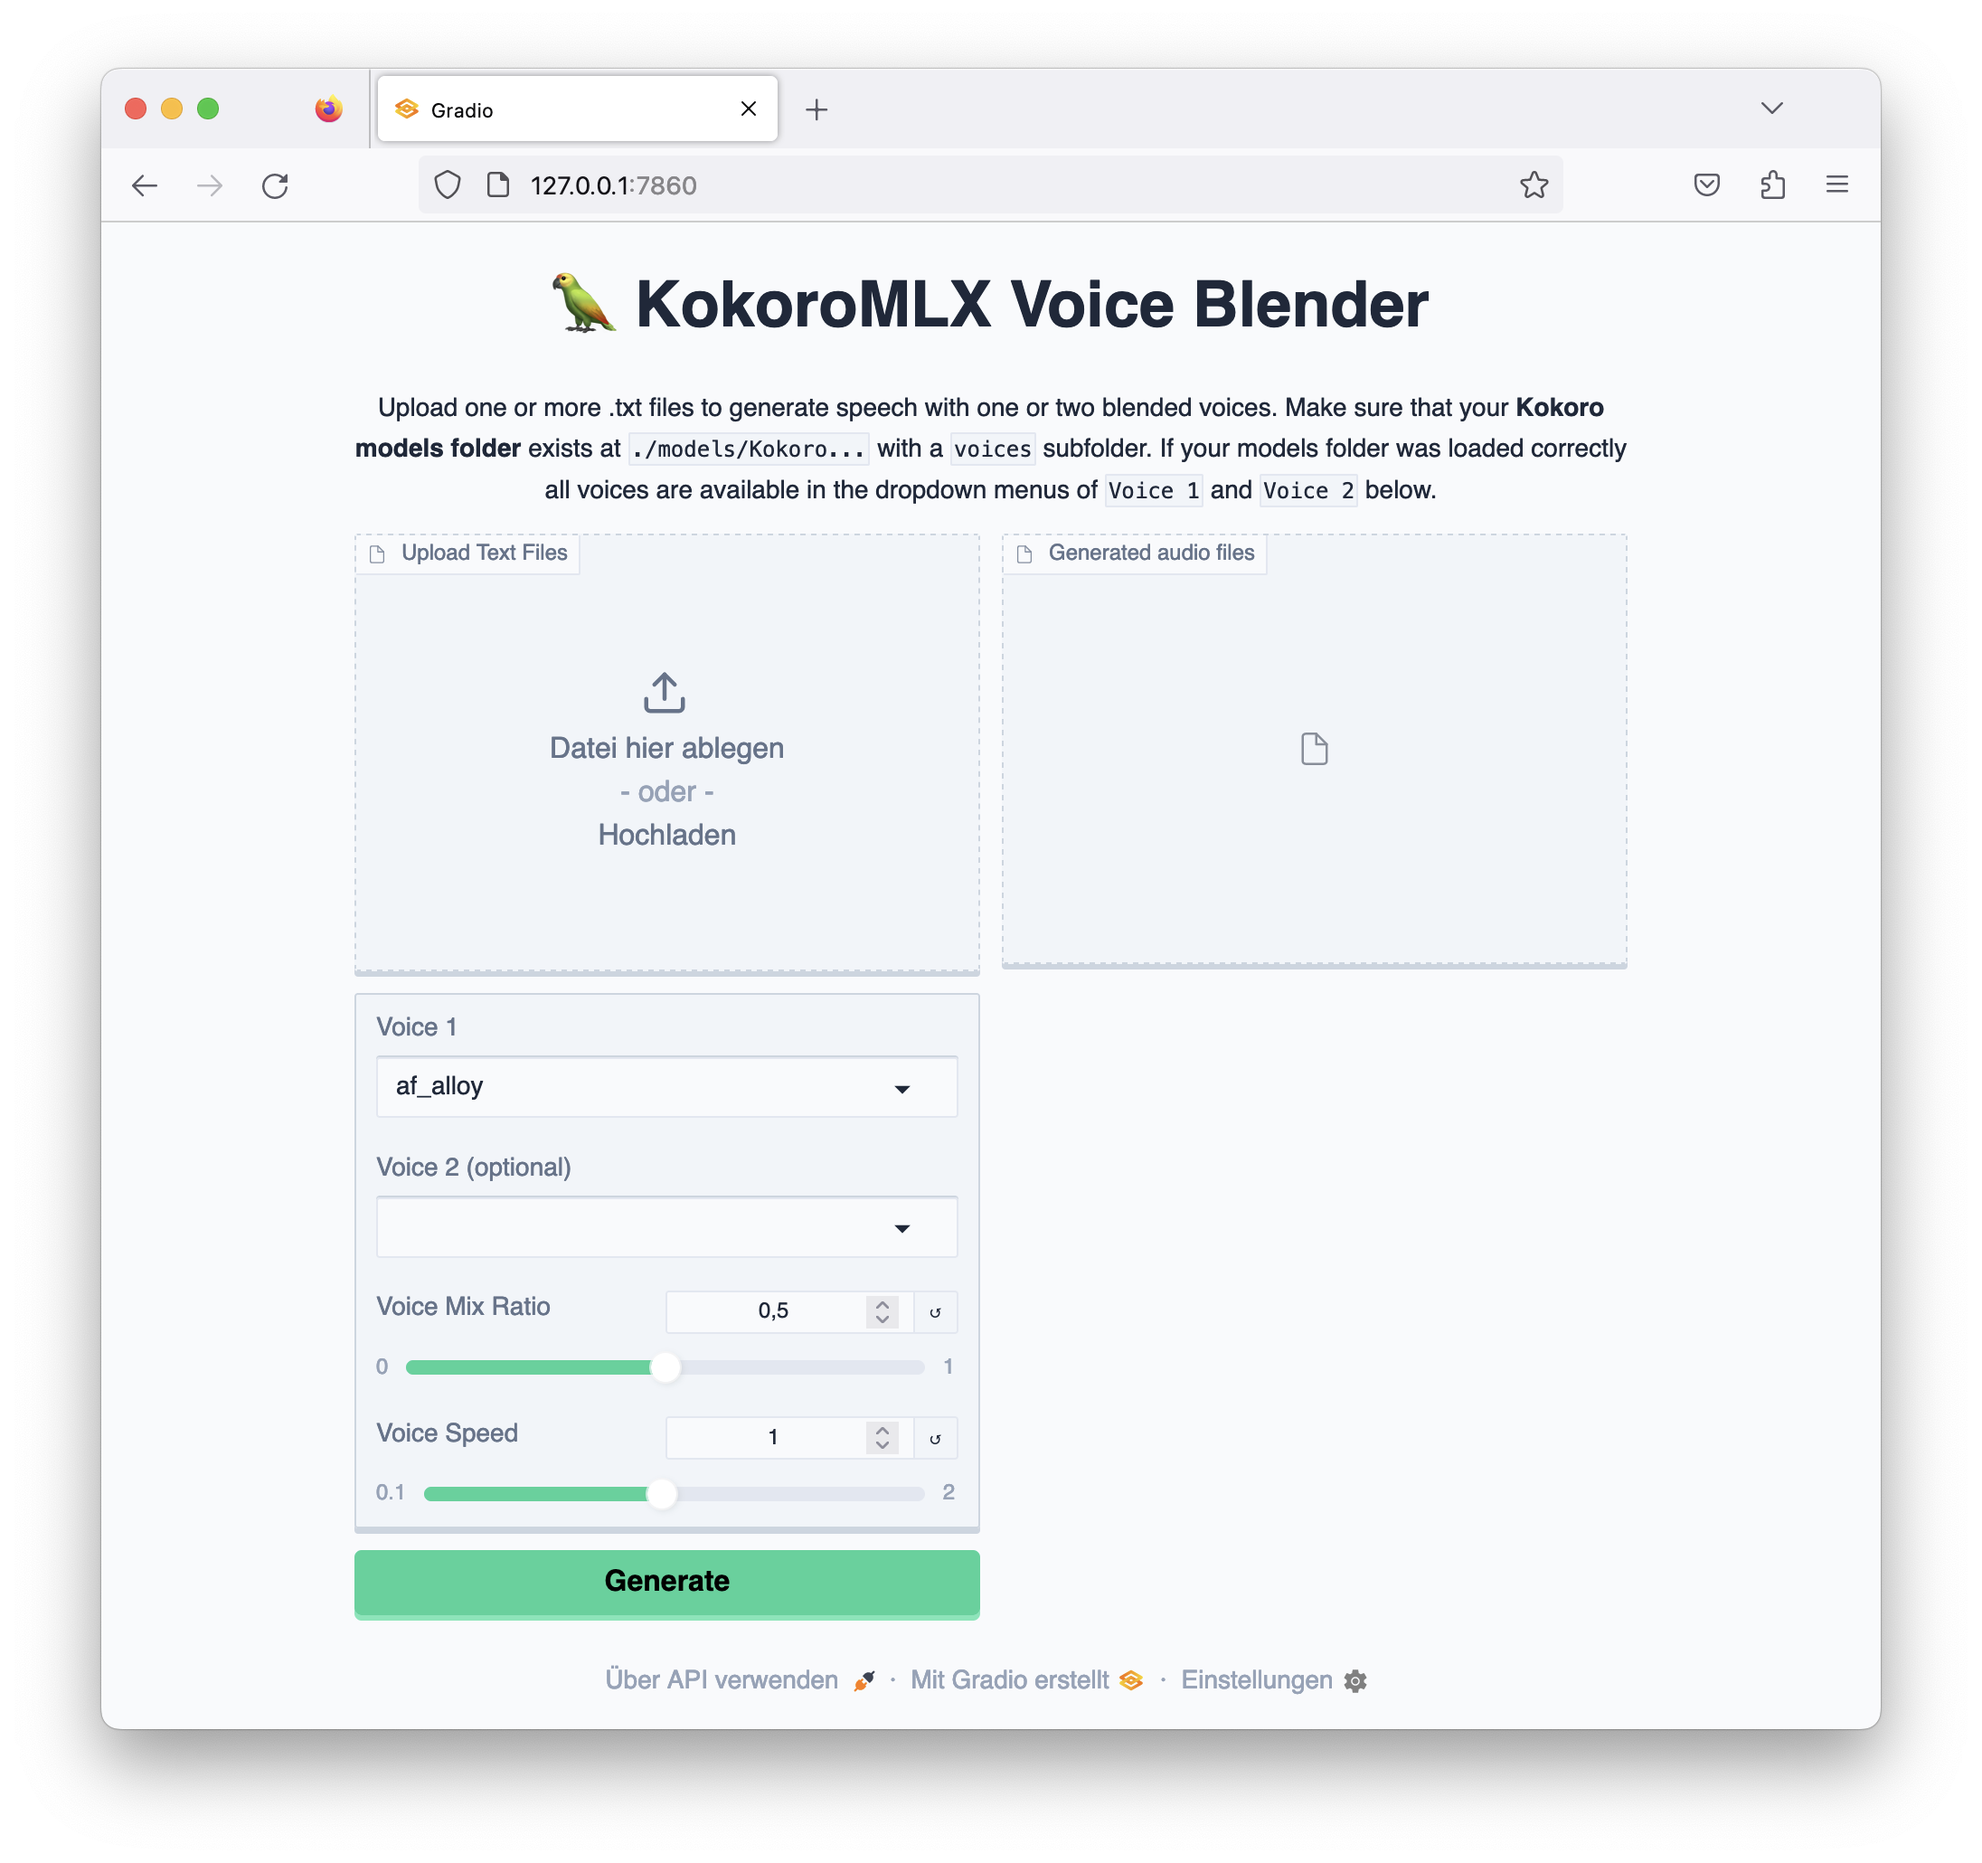
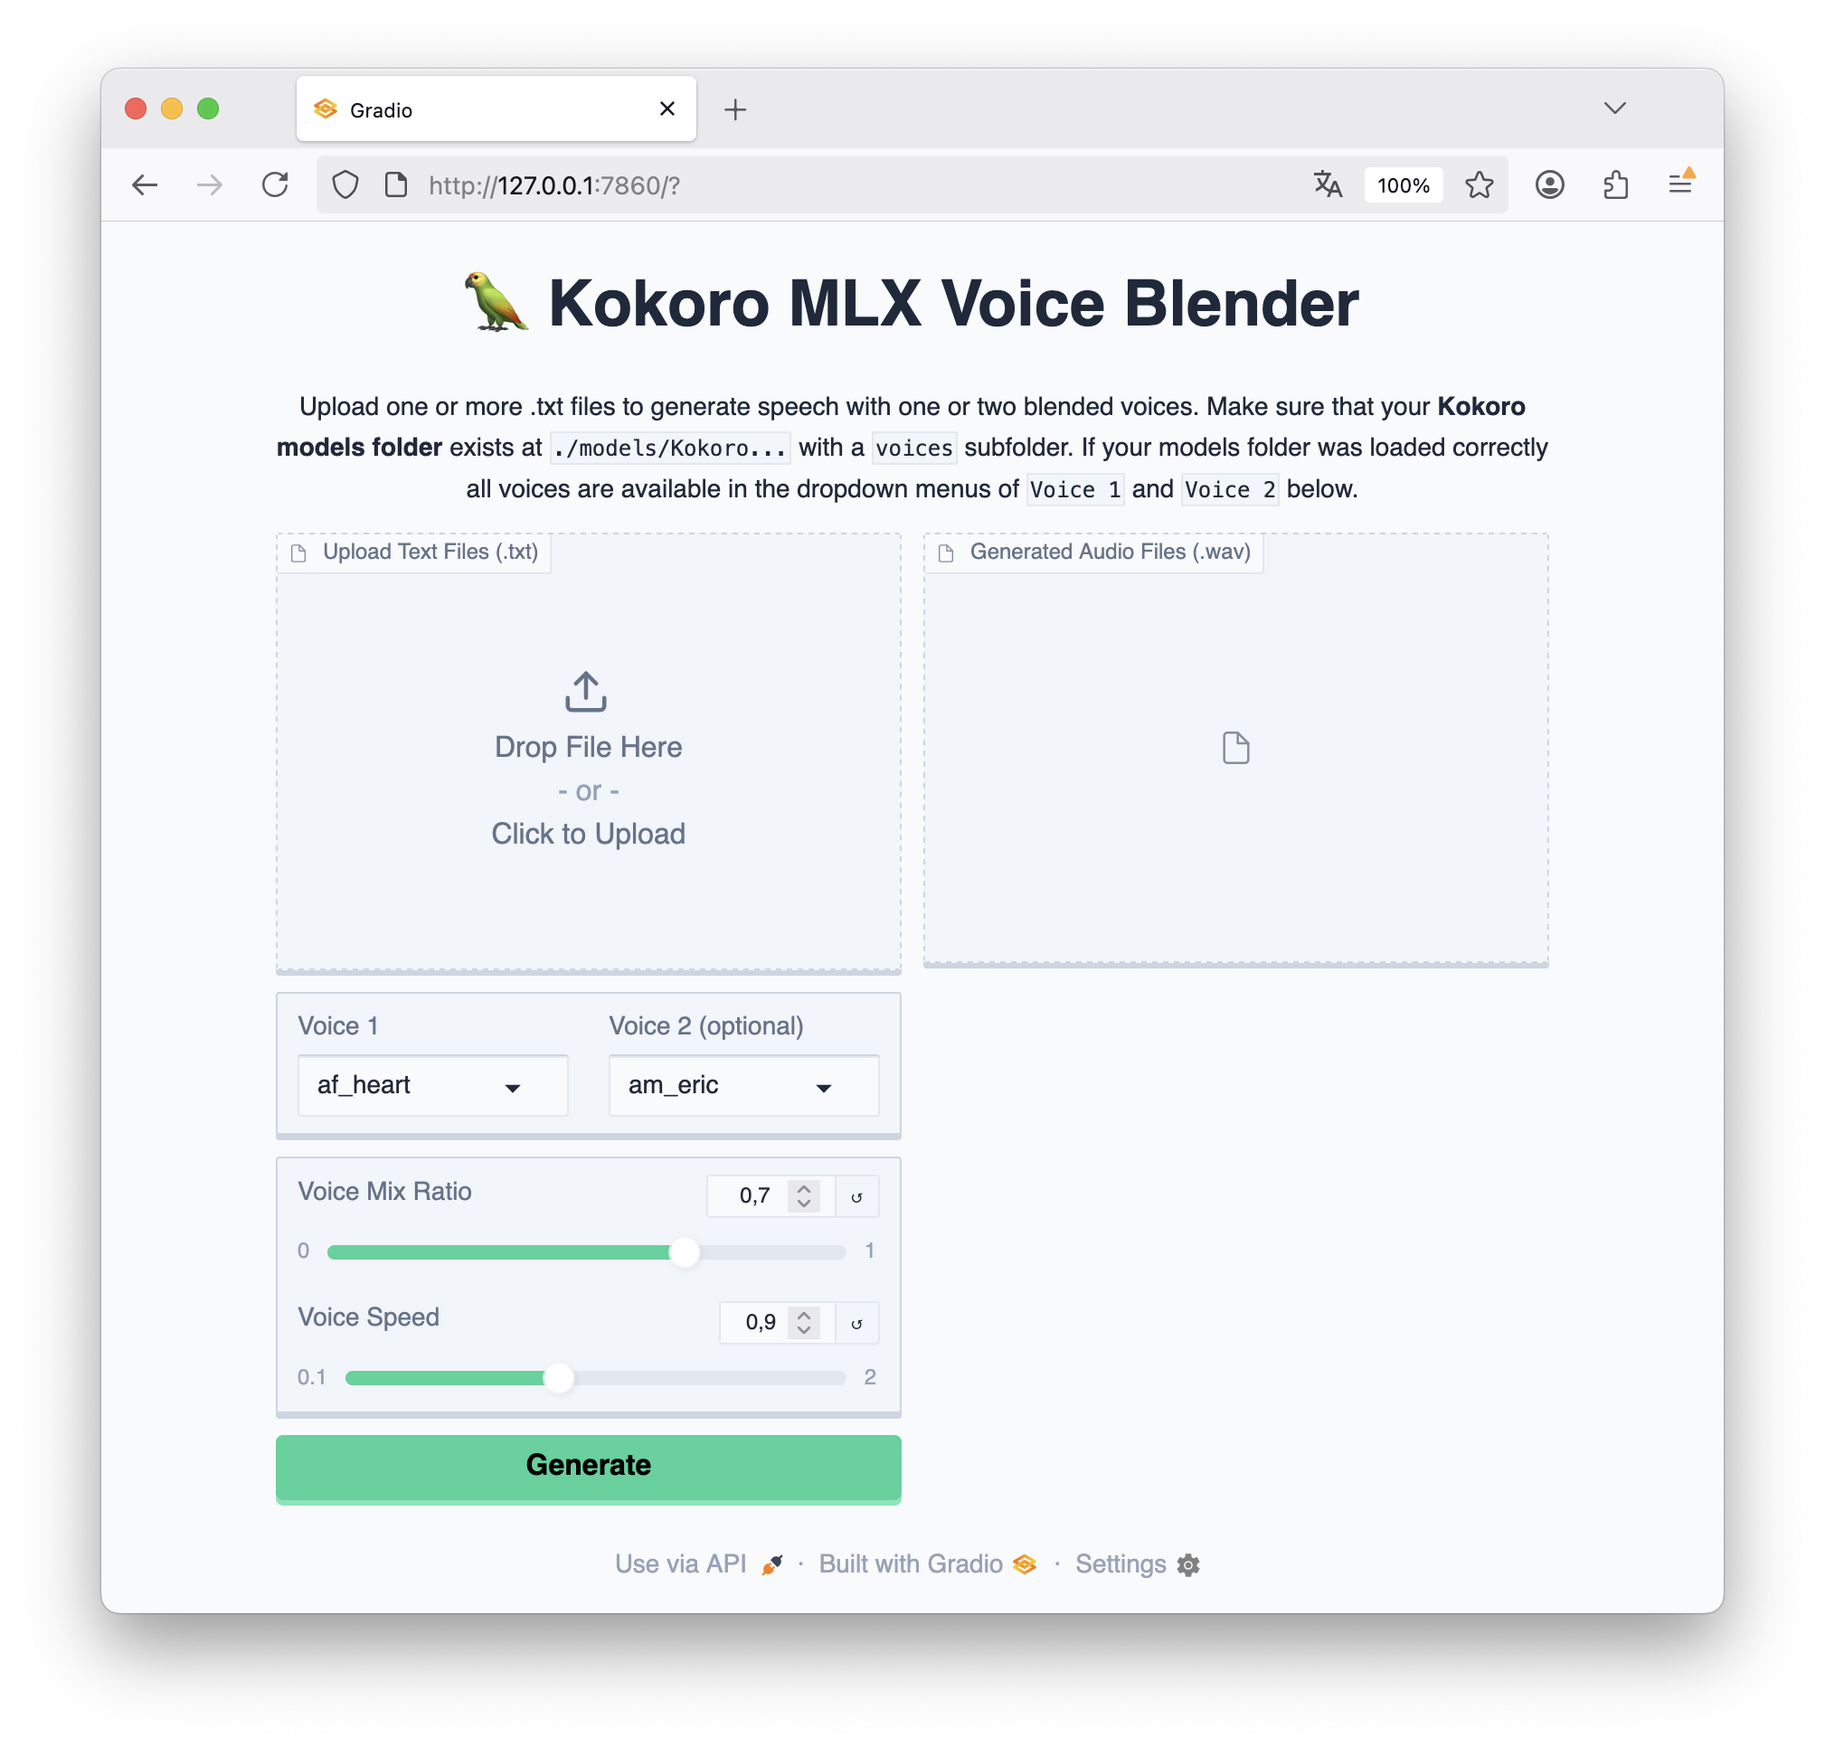
Update gradio app

diff --git a/kb_mlx/app.py b/kb_mlx/app.py
@@ -71,7 +71,7 @@ theme = gr.themes.Citrus(
 
 # Build Gradio Blocks interface
 with gr.Blocks(theme=theme, css=css) as app:
-    title = "🦜 KokoroMLX Voice Blender"
+    title = "🦜 Kokoro MLX Voice Blender"
     gr.HTML(
         f"<h1 style='font-size:2.2rem; text-align:center; margin-bottom:0.5rem;'>{title}</h1>",
         elem_classes="center-text"
@@ -91,18 +91,19 @@ and `Voice 2` below.",
             file_input = gr.Files(
                 file_count="multiple",
                 file_types=[".txt"],
-                label="Upload Text Files"
+                label="Upload Text Files (.txt)"
             )
-            voice1_dropdown = gr.Dropdown(
-                choices=voice_choices,
-                value=voice_choices[0] if voice_choices else None,
-                label="Voice 1"
-            )
-            voice2_dropdown = gr.Dropdown(
-                choices=["", *voice_choices],
-                value="",
-                label="Voice 2 (optional)"
-            )
+            with gr.Row():
+                voice1_dropdown = gr.Dropdown(
+                    choices=voice_choices,
+                    value=voice_choices[0] if voice_choices else None,
+                    label="Voice 1"
+                )
+                voice2_dropdown = gr.Dropdown(
+                    choices=["", *voice_choices],
+                    value="",
+                    label="Voice 2 (optional)"
+                )
             mix_slider = gr.Slider(
                 minimum=0.0,
                 maximum=1.0,
@@ -123,7 +124,7 @@ and `Voice 2` below.",
             # Outputs
             output_files = gr.Files(
                 file_count="multiple",
-                label="Generated audio files"
+                label="Generated Audio Files (.wav)"
             )
             generate_button.click(
                 fn=tts_from_txt,
